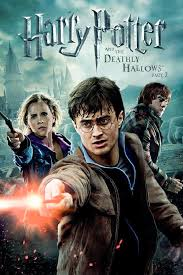
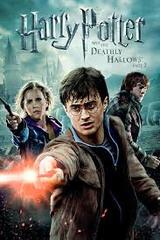
update

diff --git a/index.html b/index.html
@@ -1,25 +1,32 @@
 <!DOCTYPE html>
-<html lang="hz-tw">
+<html lang="zh-tw">
 <head>
     <meta charset="UTF-8">
-    <title>Document</title>
+    <title>哈利波特系列電影</title>
 </head>
 <body>
+    <h1>哈利波特系列電影</h1>
+    <table>
+        <tr>
+            <th>海報</th><th>片名</th>
+        </tr>
+    </table>
+
 <img src="img/01.jpg" alt="">
 神秘的魔法石
-img/02.jpg            
+<img src="img/02.jpg" alt="">        
 消失的密室
-img/03.jpg
+<img src="img/03.jpg" alt="">
 阿茲卡班的逃犯
-img/04.jpg
+<img src="img/04.jpg" alt="">
 火盃的考驗
-img/05.jpg
+<img src="img/05.jpg" alt="">
 鳳凰會的密令
-img/06.jpg
+<img src="img/06.jpg" alt="">
 混血王子的背叛
-img/07-1.jpg
+<img src="img/07-1.jpg" alt="">
 死神的聖物1
-img/07-2.jpg
+<img src="img/07-2.jpg" alt="">
 死神的聖物2   
 </body>
 </html>
